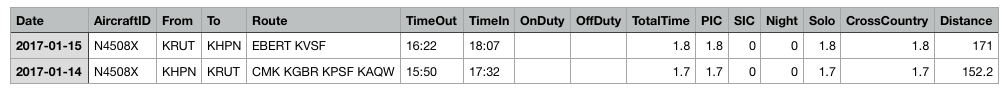
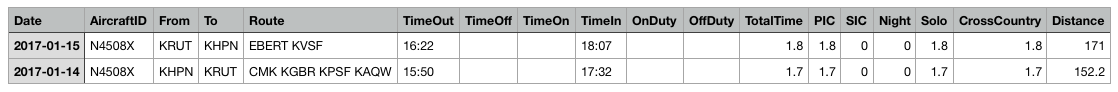
think I fixed the problem of hours not working on foreflight

diff --git a/app/models/flight.rb b/app/models/flight.rb
@@ -126,6 +126,8 @@ class Flight < ApplicationRecord
       :destination_id,
       :route,
       :time_out,
+      :time_off,
+      :time_on,
       :time_in,
       :on_duty,
       :off_duty,
